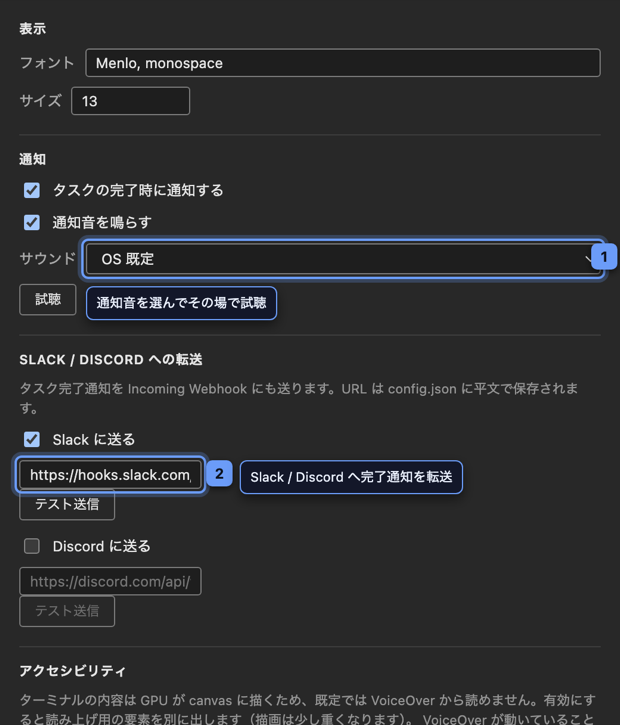
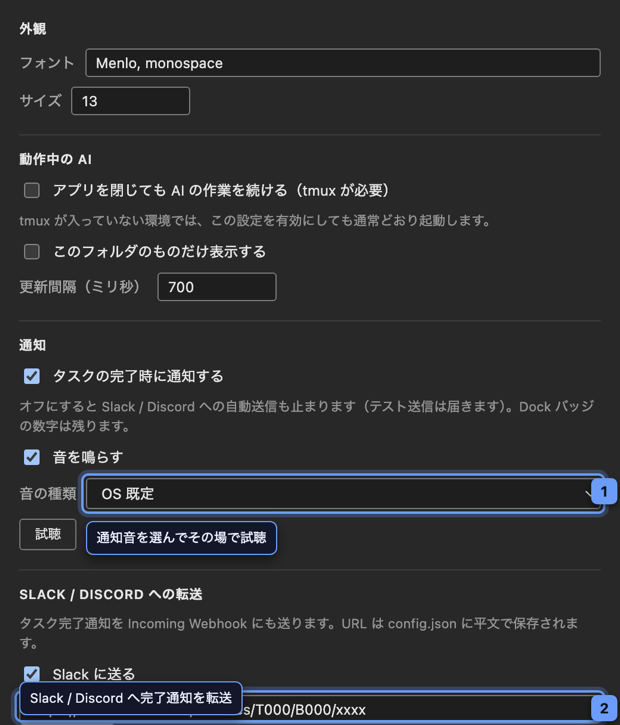
feat(settings): 設定の節を切り直し、通知と Webhook の依存を明示する (#115)
* feat(settings): 設定の節を切り直し、通知と Webhook の依存を明示する

Issue #20 の I-5 / I-6 と、I-4 のうち設定側の4行。
5ペルソナのデザインレビューを通し、初版の案から3点を変更した。

## 節の切り直し（I-5）

`外観` / `動作中の AI` / `通知` / `Slack・Discord` / `アクセシビリティ` の5節。
`動作` というゴミ箱を解体し、tmux・絞り込み・更新間隔を「動作中の AI」で括った。

**`動作` を5番目から2番目へ上げた。** 設定ウィンドウは 520x640 固定で、
従来は絞り込みがスクロールしないと存在に気づけなかった。
I-5 の目的（絞り込みを見つけられるようにする）は改名だけでは達成されない。

**`表示` -> `ターミナル` は採らず `外観` にした。** この節は fontFamily / fontSize だけで
両方 xterm に渡るが、tmux もスクリーンリーダーも「ターミナルの設定」で別の節にある。
節名が守れない約束をする。`外観` なら PR 18 のテーマ切替が自然に入る。

**`セッションの永続化` は採らなかった。** 「セッション」は履歴側の語と衝突し、
チェックボックス1個に節を割くと足りていないスクロール量をさらに使う。

## 通知と Webhook の依存（I-6）

**入れ子（インデント）にしなかった。** macOS でインデントは「親が off なら無効」を
含意するが、`notifyTestWebhook` は `notify()` を通らず通知 off でも実際に届くため、
入れ子にすると依存を主張してから自分で否定することになる。

**`disabled` も付けなかった。** 同じ理由に加え、疎通確認ができなくなる。

代わりに親スイッチの直下へ、`notifyOnIdle` の値によらず常時:

  オフにすると Slack / Discord への自動送信も止まります（テスト送信は届きます）。
  Dock バッジの数字は残ります。

**「off のときだけ出す」設計は採らなかった。** それは壊れた後の診断であって
依存の可視化ではない。人が Webhook を設定するのは通知が on のときで、
そのとき依存が画面に一文字も出ないなら I-6 を満たさない。

Dock バッジに触れているのは、`poller.ts` が notifyOnIdle と独立にバッジを
更新しているため（「通知を切った人がバッジも失うと」という設計判断がコメントにある）。

視覚以外にも伝わるよう、両 Webhook のチェックボックスを注記に aria-describedby で結んだ。

## ラベル（I-4 の設定側4行）

- `tmux が使えるなら AI CLI をラップする`
  -> `アプリを閉じても AI の作業を続ける（tmux が必要）` + 注記
  **`（tmux が必要）` を落とさない。** isTmuxAvailable が false のとき黙って通常起動するので、
  条件を落とすと実装より強い約束になる
- `タスク一覧を現在のディレクトリに絞り込む` -> `このフォルダのものだけ表示する`
  **I-4 の代案「このアプリを起動したフォルダ」は採らない。** #58 以降、実装は
[…]

Changed region(s): [[0.0, 0.2124, 1.0, 1.0], [0.0306, 0.0303, 0.0919, 0.0607]]

diff --git a/src/renderer/src/settings/SettingsPanel.tsx b/src/renderer/src/settings/SettingsPanel.tsx
@@ -29,6 +29,18 @@ type TestStatus = { state: 'idle' } | { state: 'sending' } | { state: 'done'; me
 const IDLE: TestStatus = { state: 'idle' };
 
 /**
+ * 「タスクの完了時に通知する」を切ると Slack / Discord への自動送信も止まる、という
+ * 依存を書いた注記の id。**注記は親スイッチ（notifyOnIdle）の直下に1つだけ置き、
+ * Slack / Discord 両方のチェックボックスから `aria-describedby` で参照する。**
+ *
+ * 視覚的な入れ子（インデント）にはしない。macOS ではインデントが
+ * 「親が off なら無効」を含意するが、ここは無効化しない（テスト送信は notify() を
+ * 通らないので通知 off でも届く）ため、入れ子にすると依存を主張してから自分で
+ * 否定する形になる。依存は AT には aria-describedby だけで伝える。
+ */
+const NOTIFY_DEPENDENCY_NOTE_ID = 'settings-notify-dependency-note';
+
+/**
  * Webhook 設定のパッチを組み立てる。
  * 計算プロパティ（`{ [target]: ... }`）だと Partial<AppConfig> に収まらないため、
  * 送信先ごとに明示的に分岐する。
@@ -105,6 +117,10 @@ export default function SettingsPanel({ config, onChange, onClose }: SettingsPan
           <input
             type="checkbox"
             checked={webhook.enabled}
+            // 通知トグルへの依存を AT に伝える。参照先は「通知」節に1つだけある注記で、
+            // renderWebhook 側では id を作らない（2回呼ばれるので、ここで id を
+            // 生成すると DOM に重複した id が出る）。
+            aria-describedby={NOTIFY_DEPENDENCY_NOTE_ID}
             onChange={(e) => onChange(webhookPatch(target, { ...webhook, enabled: e.target.checked }))}
           />
           <span>{label} に送る</span>
@@ -137,10 +153,14 @@ export default function SettingsPanel({ config, onChange, onClose }: SettingsPan
   };
 
   return (
-    <div className="settings settings--window" aria-label="設定">
+    // 設定ウィンドウの本体。role の無い <div> に aria-label を付けても AT には
+    // 届かないので <main> にする（見出しも h3 単独ではなく h2 から始める）。
+    <main className="settings settings--window" aria-label="設定">
       <div className="settings__body">
+          {/* 1. 外観。`ターミナル` にはしない（tmux もスクリーンリーダーも
+              「ターミナルの設定」で、それらは別の節にある）。 */}
           <section className="settings__section">
-            <h3 className="settings__heading">表示</h3>
+            <h2 className="settings__heading">外観</h2>
             <label className="settings__row">
               <span className="settings__label">フォント</span>
               <input
@@ -167,8 +187,53 @@ export default function SettingsPanel({ config, onChange, onClose }: SettingsPan
             </label>
           </section>
 
+          {/* 2. 動作中の AI。設定ウィンドウは 520x640 固定で、末尾に置くと
+              スクロールしないと存在に気づけない（絞り込みを見つけられない）。
+              改名だけでは足りないので位置ごと前に出す。 */}
           <section className="settings__section">
-            <h3 className="settings__heading">通知</h3>
+            <h2 className="settings__heading">動作中の AI</h2>
+            <label className="settings__row">
+              <input
+                type="checkbox"
+                checked={config.useTmux}
+                onChange={(e) => onChange({ useTmux: e.target.checked })}
+              />
+              <span>アプリを閉じても AI の作業を続ける（tmux が必要）</span>
+            </label>
+            {/* isTmuxAvailable が false のときは黙って通常起動する。条件
+                （tmux が必要）を落とすと実装より強い約束になるので落とさない。 */}
+            <p className="settings__note">
+              tmux が入っていない環境では、この設定を有効にしても通常どおり起動します。
+            </p>
+            <label className="settings__row">
+              <input
+                type="checkbox"
+                checked={config.scopeAgentsToCwd}
+                onChange={(e) => onChange({ scopeAgentsToCwd: e.target.checked })}
+              />
+              <span>このフォルダのものだけ表示する</span>
+            </label>
+            <label className="settings__row">
+              {/* 単位は ms のまま。`= 3.0 秒` のような換算表示を3つ目の子として
+                  足すと、.settings__row の2列グリッドの2行目に落ちて崩れる。 */}
+              <span className="settings__label">更新間隔（ミリ秒）</span>
+              <input
+                type="number"
+                className="settings__number"
+                min={500}
+                step={500}
+                value={config.pollIntervalMs}
+                onChange={(e) => {
+                  const next = Number(e.target.value);
+                  if (Number.isFinite(next)) onChange({ pollIntervalMs: next });
+                }}
+              />
+            </label>
+          </section>
+
+          {/* 3. 通知。 */}
+          <section className="settings__section">
+            <h2 className="settings__heading">通知</h2>
             <label className="settings__row">
               <input
                 type="checkbox"
@@ -177,19 +242,30 @@ export default function SettingsPanel({ config, onChange, onClose }: SettingsPan
               />
               <span>タスクの完了時に通知する</span>
             </label>
+            {/* 依存は notifyOnIdle の値によらず**常時**出す。off のときだけ出す形は
+                「壊れた後の診断」であって依存の可視化ではない（人が Webhook を
+                設定するのは通知が on のとき）。Dock バッジは poller.ts が
+                notifyOnIdle と独立に更新しているので、それも書く。 */}
+            <p className="settings__note" id={NOTIFY_DEPENDENCY_NOTE_ID}>
+              オフにすると Slack / Discord
+              への自動送信も止まります（テスト送信は届きます）。Dock バッジの数字は残ります。
+            </p>
             <label className="settings__row">
               <input
                 type="checkbox"
                 checked={config.notifySound}
                 onChange={(e) => onChange({ notifySound: e.target.checked })}
               />
-              <span>通知音を鳴らす</span>
+              <span>音を鳴らす</span>
             </label>
             <div className="settings__row">
-              <span className="settings__label">サウンド</span>
+              <span className="settings__label">音の種類</span>
               <select
                 className="settings__select"
-                aria-label="通知音"
+                // 可視ラベルと一致させる（WCAG 2.5.3 Label in Name）。この行は
+                // <div> なので <label> による関連付けが無く、アクセシブル名は
+                // この aria-label が唯一の供給元になる。
+                aria-label="音の種類"
                 value={config.notifySoundId}
                 disabled={!config.notifySound}
                 onChange={(e) => onChange({ notifySoundId: e.target.value })}
@@ -219,8 +295,9 @@ export default function SettingsPanel({ config, onChange, onClose }: SettingsPan
             </div>
           </section>
 
+          {/* 4. Slack / Discord への転送。通知節の入れ子にはしない（B-2 の注記参照）。 */}
           <section className="settings__section">
-            <h3 className="settings__heading">Slack / Discord への転送</h3>
+            <h2 className="settings__heading">Slack / Discord への転送</h2>
             <p className="settings__note">
               タスク完了通知を Incoming Webhook にも送ります。URL は config.json
               に平文で保存されます。
@@ -229,8 +306,9 @@ export default function SettingsPanel({ config, onChange, onClose }: SettingsPan
             {renderWebhook('discord', 'Discord', 'https://discord.com/api/webhooks/...')}
           </section>
 
+          {/* 5. アクセシビリティ。 */}
           <section className="settings__section">
-            <h3 className="settings__heading">アクセシビリティ</h3>
+            <h2 className="settings__heading">アクセシビリティ</h2>
             <p className="settings__note">
               ターミナルの内容は GPU が canvas に描くため、既定では VoiceOver
               から読めません。有効にすると読み上げ用の要素を別に出します（描画は少し重くなります）。
@@ -245,41 +323,7 @@ export default function SettingsPanel({ config, onChange, onClose }: SettingsPan
               <span>ターミナルの内容をスクリーンリーダーから読めるようにする</span>
             </label>
           </section>
-
-          <section className="settings__section">
-            <h3 className="settings__heading">動作</h3>
-            <label className="settings__row">
-              <input
-                type="checkbox"
-                checked={config.useTmux}
-                onChange={(e) => onChange({ useTmux: e.target.checked })}
-              />
-              <span>tmux が使えるなら AI CLI をラップする</span>
-            </label>
-            <label className="settings__row">
-              <input
-                type="checkbox"
-                checked={config.scopeAgentsToCwd}
-                onChange={(e) => onChange({ scopeAgentsToCwd: e.target.checked })}
-              />
-              <span>タスク一覧を現在のディレクトリに絞り込む</span>
-            </label>
-            <label className="settings__row">
-              <span className="settings__label">ポーリング間隔(ms)</span>
-              <input
-                type="number"
-                className="settings__number"
-                min={500}
-                step={500}
-                value={config.pollIntervalMs}
-                onChange={(e) => {
-                  const next = Number(e.target.value);
-                  if (Number.isFinite(next)) onChange({ pollIntervalMs: next });
-                }}
-              />
-            </label>
-          </section>
         </div>
-    </div>
+    </main>
   );
 }

diff --git a/src/renderer/src/styles.css b/src/renderer/src/styles.css
@@ -1661,6 +1661,20 @@ button:focus-visible {
  * #25（PR #35）で設定が独立ウィンドウ化された際に画面上のボタンごと無くなり
  * （Escape / Cmd+W / OS のクローズボタンのみになった）、対象が消滅している。
  *
+ * **`.settings__button`（設定ウィンドウの「試聴」「テスト送信」）を後から足した。**
+ * ただし**これは違反の是正ではなく、下限の常設である**。
+ *
+ * PR 13-b の設計案は「実測 22.7〜23.8px で 2.5.8 を割っている」としていたが、
+ * 実際に測ると **48x26.5（試聴）/ 80.45x26.5（テスト送信）で、既に 24x24 を
+ * 満たしていた**。案の値は `--fs-xs`(11px) x 1.2 + padding(8px) + border(2px) = 23.2px
+ * という**紙の上の計算**で、実際の行ボックスは日本語を含むシステムフォントスタックで
+ * 16.5px になる。design-rules.md が「紙の表で3回続けて誤った」と書いているのと同じ型。
+ *
+ * それでもリストに残すのは、`max(100%, --target-size-min)` が
+ * **すでに 24px 以上ある辺を縮めない**ため副作用がゼロで、`--fs-xs` や padding を
+ * 将来下げたときに 24px を割らない床になるから（S44 は本体ウィンドウしか測っておらず、
+ * 設定ウィンドウは別 BrowserWindow なので関門が無い）。
+ *
  * **`.tab-bar__close` はこのリストから除いた**（PR 19 差し戻し）。
  * タブ中央の死角を直すため `position: absolute` に変えてあり（上のコメント参照）、
  * ここで `position: relative` を当てると絶対配置が上書きされて元に戻ってしまう。
@@ -1671,7 +1685,8 @@ button:focus-visible {
 .history-item__action,
 .history-list__providers button,
 .history-list__reload,
-.terminal-search button {
+.terminal-search button,
+.settings__button {
   position: relative;
 }
 
@@ -1681,7 +1696,8 @@ button:focus-visible {
 .history-item__action::before,
 .history-list__providers button::before,
 .history-list__reload::before,
-.terminal-search button::before {
+.terminal-search button::before,
+.settings__button::before {
   content: '';
   position: absolute;
   top: 50%;
@@ -1959,7 +1975,14 @@ button:focus-visible {
   cursor: default;
 }
 
+/* URL 入力欄（.settings__text）の `flex: 1; min-width: 0` は、この親が単なる
+   ブロックだったため効いていなかった（input は block 化しても自動では伸びず、
+   size 属性ぶんの幅で止まる）。列方向の flex にすると align-items の既定
+   （stretch）で横幅いっぱいに伸び、URL の末尾が切れなくなる。
+   **Slack -> Discord の DOM 順は変えない**（S32 が .first() / .nth(1) で引く）。 */
 .settings__webhook {
+  display: flex;
+  flex-direction: column;
   margin-bottom: var(--sp-3);
 }
 

diff --git a/e2e/specs/S31-settings-panel.spec.ts b/e2e/specs/S31-settings-panel.spec.ts
@@ -39,15 +39,16 @@ test('S31 設定パネルから変更するとターミナルに反映される'
 
   // 通知音の一覧が取れていること（macOS のシステムサウンドが読める）。
   // 「OS 既定」だけの環境もありうるので、件数ではなく先頭の選択肢の性質で見る。
-  const soundSelect = dialog.locator('select[aria-label="通知音"]');
+  const soundSelect = dialog.locator('select[aria-label="音の種類"]');
   await expect(soundSelect).toHaveValue('');
 
   // フォントサイズを既定（13）と違う値に変える。
   //
   // **`input[type="number"]` の `.first()` で引かないこと。** 数値入力は
-  // 「表示 > サイズ」と「動作 > ポーリング間隔(ms)」の2つあり、`.first()` が
-  // 前者を指すのは「表示 が最初のセクションだから」という暗黙の DOM 順序への
-  // 依存でしかない。セクションを並べ替えるとポーリング間隔のほうに化け、
+  // 「外観 > サイズ」と「動作中の AI > 更新間隔（ミリ秒）」の2つあり、`.first()` が
+  // 前者を指すのは「外観 が最初のセクションだから」という暗黙の DOM 順序への
+  // 依存でしかない（PR 13-b で節を並べ替えたとき、実際に「動作中の AI」が
+  // 2番目に上がって順序が動いた）。セクションを並べ替えると更新間隔のほうに化け、
   // fill('22') が coerceConfig で 500 にクランプされてフォントサイズは 13 のまま、
   // 下の toBe('22px') が 20 秒のタイムアウトで落ちる（原因の分かりにくい壊れ方）。
   //

diff --git a/.claude/skills/design-review/reference/design-rules.md b/.claude/skills/design-review/reference/design-rules.md
@@ -73,6 +73,24 @@ CSS を読んだだけでは判断できない。
 - 値を変えたら S40 の期待値を更新するのが作業の一部。**推測で書かない**（spec が実測をログに出す）
 - 過去の Issue 本文に載っている表は、**設計意図の記録**として読む。値の根拠には使わない
 
+### ターゲットサイズも紙で計算すると誤る（4件目）
+
+上の3件はコントラストだったが、**同じ型が 2.5.8 のターゲットサイズでも出た。**
+
+| | 紙の上 | 実測 |
+|---|---|---|
+| `.settings__button`（`試聴` / `テスト送信`） | **22.7〜23.8**（`--fs-xs` 11px × 1.2 + padding 8 + border 2） | **48 x 26.5 / 80.45 x 26.5**（違反していない） |
+
+**行ボックスの高さは `font-size × 行間` にならない。** 日本語を含むシステムフォントスタックでは
+`normal` の行送りがフォントのメトリクスで決まり、11px の文字が 16.5px の行ボックスになる。
+横幅も、文字数から推定すると必ず外れる。
+
+**要素の実寸を主張するなら `getBoundingClientRect()` で測る。**
+`S44-target-size.spec.ts` が既にその形なので、**測りたい要素をそこに足すのが最短。**
+
+**存在しない違反を「直した」とコメントに書かないこと。** 床（`max(100%, 24px)`）として
+入れるのは無害だが、**コメントは実測値と「これは是正ではなく床である」を書く。**
+
 ### 色覚シミュレーションの結論
 
 Machado (2009) の変換行列で1型（重度1.0）を計算した実測:

diff --git a/.claude/skills/workspace-plan/operations/loop.md b/.claude/skills/workspace-plan/operations/loop.md
@@ -178,8 +178,18 @@ design-review は「ペインヘッダを通常フローに入れるな（幾何
 ```python
 from PIL import Image, ImageChops
 # git show HEAD:<path> と現在のファイルを比べ、getbbox() が None なら画素差ゼロ
-ImageChops.difference(a, b).getbbox() is None
+# **必ず RGB で比べる。** RGBA だと Pillow 9.5+ の getbbox() が既定 alpha_only=True で
+# 差分画像のアルファ（全面0）だけを見るため、**目に見えて違う画像でも None を返す**。
+ImageChops.difference(a.convert('RGB'), b.convert('RGB')).getbbox() is None
 ```
+
+**このレシピは実際に誤判定を出した。** PR 13-b で `.convert('RGBA')` を挟んだ結果、
+**撮り直した設定ウィンドウを含む13枚すべてが「画素差ゼロ」と出た**（Pillow 12.3.0 で実測)。
+`getbbox(alpha_only=False)` でも正しく出るが、**RGB に落とすほうが間違えにくい**。
+
+**判定コードそのものが「差が無い」側に倒れる壊れ方をすることに注意する。**
+疑わしいときは、**変わったと分かっている1枚で先にレシピを較正する**（差分が出ることを確認してから、
+出なかった画像を「画素差ゼロ」と結論する）。
 
 **差分の原因を追跡せずに撮り直すと、実装の不整合が画像として固定され README で配布される。**
 
